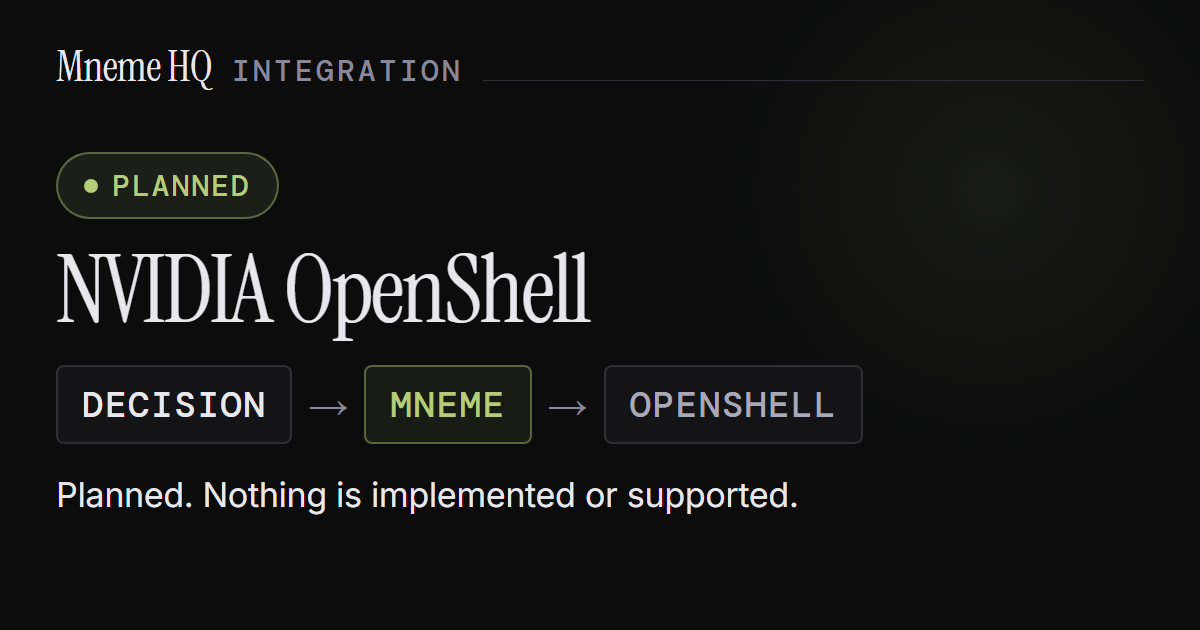
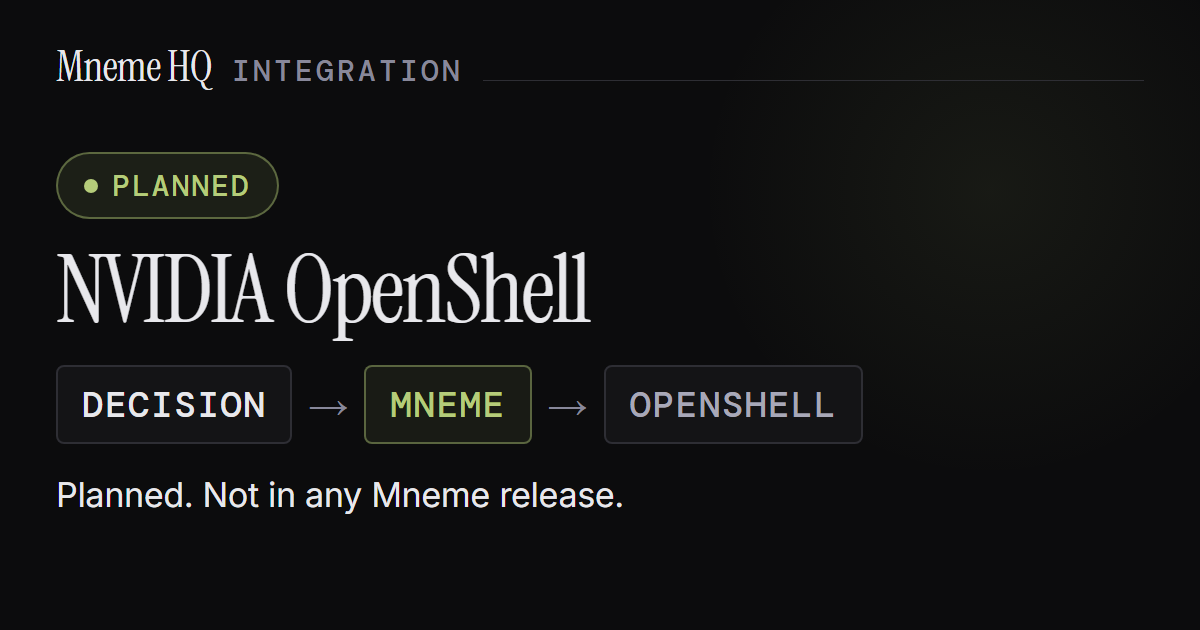
site: apply pre-merge claim audit fixes to integrations pages

Changed region(s): [[0.2158, 0.754, 0.6783, 0.8143]]

diff --git a/site/integrations/nvidia-openshell/index.html b/site/integrations/nvidia-openshell/index.html
@@ -8,7 +8,7 @@
   <link rel="preload" href="/assets/fonts/Inter-400.woff2" as="font" type="font/woff2" crossorigin>
   <link rel="stylesheet" href="/assets/css/fonts.css">
   <link rel="stylesheet" href="/assets/css/base.css?v=20260921">
-  <meta name="description" content="NVIDIA OpenShell controls what an AI agent can access. A Mneme integration with OpenShell is planned: nothing is implemented or supported yet." />
+  <meta name="description" content="NVIDIA OpenShell controls what an AI agent can access. A Mneme integration with OpenShell is planned: no release includes it and none is supported." />
   <meta name="robots" content="index, follow" />
   <meta name="theme-color" content="#0c0c0d" />
   <link rel="canonical" href="https://mnemehq.com/integrations/nvidia-openshell/" />
@@ -20,12 +20,12 @@
   <meta property="og:image" content="https://mnemehq.com/integrations/nvidia-openshell/og-v2.png" />
 <meta property="og:image:width" content="1200" />
 <meta property="og:image:height" content="630" />
-<meta property="og:image:alt" content="Integration: Mneme HQ + NVIDIA OpenShell. Planned integration. Nothing is implemented or supported." />
+<meta property="og:image:alt" content="Integration: Mneme HQ + NVIDIA OpenShell. Planned integration, not in any release." />
   <meta name="twitter:card" content="summary_large_image" />
   <meta name="twitter:title" content="Mneme HQ + NVIDIA OpenShell: Planned Integration Status" />
   <meta name="twitter:description" content="A Mneme integration with NVIDIA OpenShell is planned, not built. What OpenShell controls, what it does not decide, and where the two could connect." />
   <meta name="twitter:image" content="https://mnemehq.com/integrations/nvidia-openshell/og-v2.png" />
-<meta name="twitter:image:alt" content="Integration: Mneme HQ + NVIDIA OpenShell. Planned integration. Nothing is implemented or supported." />
+<meta name="twitter:image:alt" content="Integration: Mneme HQ + NVIDIA OpenShell. Planned integration, not in any release." />
   <meta name="author" content="Theo Valmis" />
   <meta property="article:published_time" content="2026-10-29T00:00:00Z" />
   <meta property="article:author" content="https://mnemehq.com/founder/" />
@@ -65,7 +65,7 @@
     {
       "@type": "TechArticle",
       "headline": "Mneme HQ + NVIDIA OpenShell: Planned Integration Status",
-      "description": "NVIDIA OpenShell controls what an AI agent can access. A Mneme integration with OpenShell is planned: nothing is implemented or supported yet.",
+      "description": "NVIDIA OpenShell controls what an AI agent can access. A Mneme integration with OpenShell is planned: no release includes it and none is supported.",
       "url": "https://mnemehq.com/integrations/nvidia-openshell/",
       "datePublished": "2026-10-29",
       "dateModified": "2026-10-29",
@@ -94,7 +94,7 @@
           "name": "Is there a Mneme connector for OpenShell I can install?",
           "acceptedAnswer": {
             "@type": "Answer",
-            "text": "No. The integration is planned, and nothing is implemented. The planned scope is one OpenCode file-write tool inside an OpenShell sandbox."
+            "text": "No. The integration is planned, and no implementation has been merged or released. The planned scope is one OpenCode file-write tool inside an OpenShell sandbox."
           }
         },
         {
@@ -306,7 +306,7 @@
 </nav>
 
 <section class="hero">
-  <div class="hero-eyebrow">Planned integration &middot; nothing implemented or supported</div>
+  <div class="hero-eyebrow">Planned integration &middot; not in any release</div>
   <h1>Mneme HQ + NVIDIA OpenShell</h1>
   <p class="hero-sub">NVIDIA OpenShell runs an AI agent inside a sandbox and controls what the agent can reach: files, processes, network destinations. Mneme is an open-source tool that stores a team&rsquo;s architectural decisions in the repository and checks code changes against them, either inside a coding agent before it writes a file or in CI on a pull request. A Mneme integration with OpenShell is <strong>planned</strong>: no adapter or install step exists today.</p>
 </section>
@@ -314,16 +314,16 @@
 <section class="section narrow">
   <h2>Status: planned</h2>
   <p>Two draft pull requests in Mneme&rsquo;s open-source repository describe an optional reference setup. In it, OpenCode, an open-source terminal coding agent, runs inside an OpenShell sandbox, and Mneme checks what OpenCode&rsquo;s <code>write</code> tool is about to write to a file. <a href="https://github.com/MnemeHQ/mneme/pull/609" target="_blank" rel="noopener">The first</a> adds the setup to the roadmap. <a href="https://github.com/MnemeHQ/mneme/pull/610" target="_blank" rel="noopener">The second</a> lists the tests a future implementation would have to pass. Both contain documentation only and neither is merged.</p>
-  <div class="callout"><p><strong>Planned, not built.</strong> No release of mneme-hq, Mneme&rsquo;s Python package, includes OpenShell support, and no results are published. The planned scope covers OpenCode&rsquo;s <code>write</code> tool only. Its other tools, shell commands and OpenShell&rsquo;s own settings are outside it.</p></div>
+  <div class="callout"><p><strong>Planned, not built.</strong> No release of mneme-hq, Mneme&rsquo;s Python package, includes OpenShell support, no implementation has been merged, and this page cites no test results. The planned scope covers OpenCode&rsquo;s <code>write</code> tool only. Its other tools, shell commands and OpenShell&rsquo;s own settings are outside it.</p></div>
 </section>
 
 <section class="section narrow">
   <h2>What OpenShell controls</h2>
-  <p>On October 21, 2026, NVIDIA <a href="https://nvidianews.nvidia.com/news/openshell-reference-architecture" target="_blank" rel="noopener">announced the OpenShell Reference Architecture</a>. It pairs the open-source OpenShell runtime with NVIDIA hardware, including optional <a href="/integrations/nvidia-sentry/">NVIDIA Sentry</a>. The runtime does not need that hardware. NVIDIA&rsquo;s <a href="https://developer.nvidia.com/blog/how-nvidia-openshell-reference-architecture-secures-and-governs-ai-agent-workloads-at-scale/" target="_blank" rel="noopener">technical walkthrough</a> describes four parts:</p>
+  <p>On October 21, 2026, NVIDIA <a href="https://nvidianews.nvidia.com/news/openshell-reference-architecture" target="_blank" rel="noopener">announced the OpenShell Reference Architecture</a>. It pairs the open-source OpenShell runtime with NVIDIA hardware, including optional <a href="/integrations/nvidia-sentry/">NVIDIA Sentry</a> (not Sentry.io, the error-monitoring service). The runtime does not need that hardware. NVIDIA&rsquo;s <a href="https://developer.nvidia.com/blog/how-nvidia-openshell-reference-architecture-secures-and-governs-ai-agent-workloads-at-scale/" target="_blank" rel="noopener">technical walkthrough</a> describes four parts:</p>
   <ul>
     <li><strong>Gateway:</strong> the control plane. It creates and removes sandboxes and holds their policies.</li>
     <li><strong>Sandbox:</strong> isolates the agent and restricts which files and processes it can use.</li>
-    <li><strong>Supervisor:</strong> runs outside the sandbox, checks outbound requests against policy and hands out credentials.</li>
+    <li><strong>Supervisor:</strong> runs outside the sandbox, checks outbound requests against policy and mediates access to credentials.</li>
     <li><strong>Policy prover:</strong> checks that a policy grants nothing beyond a boundary policy, an upper limit the organization writes.</li>
   </ul>
   <p>A <a href="https://docs.nvidia.com/openshell/latest/how-it-works/policies/overview" target="_blank" rel="noopener">sandbox policy</a> is a YAML file. In the v0.1.5 documentation, the default version on October 22, 2026, it sets readable and writable paths, the user that sandbox processes run as, which destinations each program may reach, and middleware for allowed traffic. The file and process settings are fixed when the sandbox starts; the network settings can change while it runs. Outbound traffic is denied unless a rule allows it.</p>
@@ -354,7 +354,7 @@
     <thead><tr><th>Point</th><th>What it sees</th><th>Mneme status</th></tr></thead>
     <tbody>
       <tr><td>The agent&rsquo;s own file-write tool</td><td>The exact content about to be written. This is where the planned OpenCode <code>write</code> check sits.</td><td><strong>Planned</strong></td></tr>
-      <tr><td><a href="https://docs.nvidia.com/openshell/latest/extensibility/gateway-interceptors" target="_blank" rel="noopener">Gateway interceptors</a></td><td>Changes to OpenShell itself, such as creating a sandbox or updating its configuration, and only those on an explicit allowlist. Before a change is saved, a <code>validate</code> call can allow or deny it and a <code>modify_operation</code> call can rewrite it. A <code>post_commit</code> call only observes. Interceptors never see the agent&rsquo;s file writes.</td><td><strong>Research</strong>: no adapter</td></tr>
+      <tr><td><a href="https://docs.nvidia.com/openshell/latest/extensibility/gateway-interceptors" target="_blank" rel="noopener">Gateway interceptors</a></td><td>Changes to OpenShell itself, such as creating a sandbox or updating its configuration, and only those on an explicit allowlist. Before a change is saved, a <code>validate</code> call can allow or deny it and a <code>modify_operation</code> call can rewrite it. A <code>post_commit</code> call only observes. The documentation describes only these gateway operations, not the agent&rsquo;s file writes.</td><td><strong>Research</strong>: no adapter</td></tr>
       <tr><td>Supervisor middleware</td><td>HTTP and WebSocket traffic that the network policy already allowed. It can inspect, change or deny it.</td><td><strong>Research</strong>: no adapter</td></tr>
       <tr><td><a href="https://docs.nvidia.com/openshell/latest/observability/logging" target="_blank" rel="noopener">Security event logs</a></td><td>Sandbox events in the Open Cybersecurity Schema Framework (OCSF) v1.8.0 format, exportable as JSON to a security monitoring system.</td><td><strong>Research</strong>: no mapping to Mneme evidence</td></tr>
       <tr><td>CI on the pull request</td><td>The final diff, outside the sandbox.</td><td><strong>Shipped</strong>, independent of OpenShell</td></tr>
@@ -384,7 +384,7 @@
   <h2>FAQ</h2>
   <details style="border-top:1px solid var(--border); padding:1.05rem 0;">
     <summary style="cursor:pointer; font-size:0.92rem; color:var(--text); font-weight:500;">Is there a Mneme connector for OpenShell I can install?</summary>
-    <div style="padding-top:0.85rem; font-size:0.85rem; color:var(--muted); line-height:1.8;">No. The integration is planned, and nothing is implemented. The planned scope is one OpenCode file-write tool inside an OpenShell sandbox.</div>
+    <div style="padding-top:0.85rem; font-size:0.85rem; color:var(--muted); line-height:1.8;">No. The integration is planned, and no implementation has been merged or released. The planned scope is one OpenCode file-write tool inside an OpenShell sandbox.</div>
   </details>
   <details style="border-top:1px solid var(--border); padding:1.05rem 0;">
     <summary style="cursor:pointer; font-size:0.92rem; color:var(--text); font-weight:500;">Does Mneme replace OpenShell policies?</summary>

diff --git a/site/integrations/index.html b/site/integrations/index.html
@@ -266,7 +266,8 @@
     <p>Statuses describe what exists in mneme-hq 0.10.0, the current release of Mneme&rsquo;s Python package. Only the status line on each entry says what Mneme supports; some tools have a page without being supported. Text after the status names the path or limit that applies, such as &ldquo;through CI&rdquo;.</p>
   </div>
   <dl class="status-key">
-    <div><dt>Shipped</dt><dd>Released in mneme-hq: an adapter, hook, command or reference workflow with tests in the open-source repository. For tools with no adapter of their own, the qualifier names the shipped path that reaches them.</dd></div>
+    <div><dt>Shipped</dt><dd>Released in mneme-hq: an adapter, hook, command or reference workflow with tests in the open-source repository.</dd></div>
+    <div><dt>No adapter</dt><dd>Mneme has nothing for this tool itself. The label names the shipped path that still reaches its changes, such as CI.</dd></div>
     <div><dt>Validated</dt><dd>Unmodified Mneme was tested working through the tool, with published evidence. No dedicated adapter.</dd></div>
     <div><dt>Experimental</dt><dd>Code exists and some boundaries are tested, but coverage or validation is incomplete. Not for production use.</dd></div>
     <div><dt>Planned</dt><dd>Design or specification work only. Nothing is implemented or supported.</dd></div>
@@ -305,7 +306,7 @@
 
   <section class="layer" id="coding-agents">
     <div class="layer-head"><span class="layer-num">02</span><h2>Coding agents and harnesses</h2></div>
-    <p class="layer-desc">A harness is the program that runs a coding agent&rsquo;s loop and tools. Where an agent offers a hook, a point where outside code can inspect an action before it runs, Mneme checks a proposed file write there. Writes made through shell commands reach disk first: Claude Code and Codex CLI check them when the agent ends its turn, and every other agent relies on CI.</p>
+    <p class="layer-desc">A harness is the program that runs a coding agent&rsquo;s loop and tools. Where an agent offers a hook, a point where outside code can inspect an action before it runs, Mneme checks a proposed file write there. Most writes made through shell commands reach disk first: Claude Code and Codex CLI check them when the agent ends its turn, and every other agent relies on CI.</p>
     <div class="layer-grid">
       <a class="int-card" href="/integrations/claude-code/">
         <div class="int-status">Shipped</div>
@@ -335,7 +336,7 @@
       <a class="int-card muted" href="/integrations/hermes/">
         <div class="int-status">Experimental</div>
         <h3>Hermes Agent</h3>
-        <p>Adds decisions to each turn and checks supported file changes before they run. Tested against Hermes Agent 0.19.0; shell and process writes are not checked, and there is no end-of-turn check.</p>
+        <p>Adds decisions to each turn and checks supported file changes before they run. Tested at the plugin dispatch layer against Hermes Agent 0.19.0; most shell writes and all process-tool writes are not checked, and there is no end-of-turn check.</p>
       </a>
       <a class="int-card muted" href="/integrations/opencode/">
         <div class="int-status">Experimental</div>
@@ -348,7 +349,7 @@
     <p class="layer-desc">These tools have no Mneme adapter of their own. The status names the shipped path that does reach them.</p>
     <div class="layer-grid">
       <a class="int-card" href="/integrations/vscode/">
-        <div class="int-status">Shipped &middot; through the Claude Code hook</div>
+        <div class="int-status">No adapter &middot; Claude Code hook (shipped)</div>
         <h3>VS Code</h3>
         <p>Claude Code sessions inside VS Code use the same PreToolUse hook. No extension needed.</p>
       </a>
@@ -358,17 +359,17 @@
         <p><code>mneme cursor generate</code> writes a Cursor Rules file from your recorded decisions, resolving decisions that conflict. Cursor passes them to its model as context; the rules file blocks nothing.</p>
       </a>
       <a class="int-card" href="/integrations/copilot/">
-        <div class="int-status">Shipped &middot; through CI</div>
+        <div class="int-status">No adapter &middot; CI check (shipped)</div>
         <h3>GitHub Copilot</h3>
         <p>Copilot has no hook Mneme can use. The CI check covers its changes.</p>
       </a>
       <a class="int-card" href="/integrations/jetbrains/">
-        <div class="int-status">Shipped &middot; through CI</div>
+        <div class="int-status">No adapter &middot; CI check (shipped)</div>
         <h3>JetBrains IDEs</h3>
         <p>The decision corpus and the CI check apply regardless of which IDE produced the change.</p>
       </a>
       <a class="int-card" href="/integrations/warp/">
-        <div class="int-status">Shipped &middot; through the agent or CI</div>
+        <div class="int-status">No adapter &middot; agent hook or CI (shipped)</div>
         <h3>Warp</h3>
         <p>No Warp adapter. Checks apply when the agent Warp runs has a Mneme hook, or when CI checks the diff.</p>
       </a>
@@ -400,9 +401,9 @@
         <p>Mneme as middleware around Deep Agents&rsquo; filesystem tools. Roadmap only until its own pinned validation passes.</p>
       </div>
       <div class="int-card muted">
-        <div class="int-status">Planned</div>
+        <div class="int-status">Research</div>
         <h3>n8n</h3>
-        <p>Checks on AI-driven steps in n8n workflow automation. On the roadmap; no design is published yet.</p>
+        <p>Whether Mneme checks could apply to AI-driven steps in n8n workflow automation. No design exists.</p>
       </div>
       <div class="int-card muted">
         <div class="int-status">Research</div>
@@ -417,15 +418,15 @@
     <p class="layer-desc">A software factory combines a work queue, an orchestrator, coding agents, CI and human review. Mneme does not integrate with a factory as a unit, and it is not a factory platform. It supplies the decisions the factory&rsquo;s agents must respect, through the shipped checks above. For the argument, read <a class="inline" href="/insights/software-factory-governance-layer/">the software factory&rsquo;s missing decision layer</a>.</p>
     <div class="layer-grid">
       <div class="int-card muted">
-        <div class="int-status">Planned</div>
+        <div class="int-status">Research &middot; proposed workflow</div>
         <h3>One-issue software factory</h3>
-        <p>A proposed starting workflow: one repository, one supported coding agent, two reviewed decisions, a CI check and a human-approved merge. The runnable guide waits for experiment evidence.</p>
+        <p>A proposed starting workflow, not yet tested: one repository, one supported coding agent, two reviewed decisions, a CI check and a human-approved merge.</p>
       </div>
-      <a class="int-card" href="/use-cases/multi-agent-workflow-governance/">
-        <div class="int-status">Shipped &middot; per supported agent</div>
+      <div class="int-card">
+        <div class="int-status">Pattern &middot; coverage per agent</div>
         <h3>Multi-agent workflows</h3>
-        <p>When several agents work on one repository, each supported agent reads the same decision corpus. Coverage is per agent, as listed above.</p>
-      </a>
+        <p>When several agents work on one repository, each agent with a Mneme hook checks against the same recorded decisions, and CI covers the rest. Coverage is whatever each agent has, as listed above.</p>
+      </div>
     </div>
   </section>
 
@@ -458,7 +459,7 @@
       <a class="int-card muted" href="/integrations/nvidia-openshell/">
         <div class="int-status">Planned</div>
         <h3>NVIDIA OpenShell</h3>
-        <p>An optional reference setup for one OpenCode file-write tool inside an OpenShell sandbox is in draft design documents. Nothing is implemented or supported.</p>
+        <p>An optional reference setup for one OpenCode file-write tool inside an OpenShell sandbox is proposed in draft design documents. No release includes it.</p>
       </a>
       <a class="int-card muted" href="/integrations/open-policy-agent/">
         <div class="int-status">Research</div>

diff --git a/site/docs/how-enforcement-works/index.html b/site/docs/how-enforcement-works/index.html
@@ -273,7 +273,7 @@
       <div style="overflow-x:auto;-webkit-overflow-scrolling:touch;">
       <svg viewBox="0 0 820 610" xmlns="http://www.w3.org/2000/svg" role="img" aria-labelledby="dly-t dly-d" style="width:100%;min-width:640px;height:auto;display:block;max-width:820px;margin:0 auto;" font-family="Inter, ui-sans-serif, system-ui, sans-serif">
         <title id="dly-t">Where the Mneme decision layer sits</title>
-        <desc id="dly-d">Engineering intent (ADRs, standards, review policies) flows into the Mneme decision layer, which holds decision identity, applicability, precedence and lifecycle and produces agent context and deterministic rules. Three shipped surfaces receive the same decisions: AI coding agents through pre-write hooks (Claude Code, Claude Agent SDK, Codex CLI, Kiro, Google Antigravity), with decision context injected where the harness supports it (Claude Code, Claude Agent SDK), editors and the CLI (Cursor rules export, mneme check, pre-commit), and GitHub CI through the Actions gate. Each returns an inspectable result: a guide, warn, or block verdict traced to its source decision. Deployment platforms and policy engines such as OPA, and a broader evidence return path, are shown dashed as planned, not shipped.</desc>
+        <desc id="dly-d">Engineering intent (ADRs, standards, review policies) flows into the Mneme decision layer, which holds decision identity, applicability, precedence and lifecycle and produces agent context and deterministic rules. Three shipped surfaces receive the same decisions: AI coding agents through pre-write hooks (Claude Code, Claude Agent SDK, Codex CLI, Kiro, Google Antigravity), with decision context injected where the harness supports it (Claude Code, Claude Agent SDK), editors and the CLI (Cursor rules export, mneme check, pre-commit), and GitHub CI through the Actions gate. Each returns an inspectable result: a guide, warn, or block verdict traced to its source decision. Deployment platforms and policy engines such as OPA, and a broader evidence return path, are shown dashed as not shipped: planned or under research.</desc>
         <defs>
           <marker id="dly-a" viewBox="0 0 10 10" refX="8" refY="5" markerWidth="7" markerHeight="7" orient="auto-start-reverse"><path d="M0 0L10 5L0 10z" fill="#b5cc7a"/></marker>
           <marker id="dly-ad" viewBox="0 0 10 10" refX="8" refY="5" markerWidth="7" markerHeight="7" orient="auto-start-reverse"><path d="M0 0L10 5L0 10z" fill="#5a5a66"/></marker>
@@ -320,8 +320,8 @@
 
         <!-- planned -->
         <rect x="610" y="300" width="176" height="104" rx="10" fill="none" stroke="#5a5a66" stroke-dasharray="5 4"/>
-        <text x="698" y="326" text-anchor="middle" fill="#9a9aa6" font-size="13" font-weight="600">Planned</text>
-        <text x="698" y="346" text-anchor="middle" fill="#6a6a76" font-size="11">not shipped</text>
+        <text x="698" y="326" text-anchor="middle" fill="#9a9aa6" font-size="13" font-weight="600">Not shipped</text>
+        <text x="698" y="346" text-anchor="middle" fill="#6a6a76" font-size="11">planned or research</text>
         <text x="698" y="368" text-anchor="middle" fill="#6a6a76" font-size="10.5">deployment platforms</text>
         <text x="698" y="384" text-anchor="middle" fill="#6a6a76" font-size="10.5">policy engines (e.g. OPA)</text>
 
@@ -342,7 +342,7 @@
         <text x="410" y="587" text-anchor="middle" fill="#88889a" font-size="12">It supplies the approved decisions they check changes against.</text>
       </svg>
       </div>
-      <figcaption style="margin-top:0.75rem;font-size:0.82rem;color:#a8a8b8;line-height:1.6;">Solid surfaces ship today. Dashed surfaces are planned and not yet available. Full support levels are listed on the <a href="/integrations/" style="color:#8be0c8;">integrations matrix</a>.</figcaption>
+      <figcaption style="margin-top:0.75rem;font-size:0.82rem;color:#a8a8b8;line-height:1.6;">Solid surfaces ship today. Dashed surfaces are not shipped: they are planned or under research. Full support levels are listed on the <a href="/integrations/" style="color:#8be0c8;">integrations matrix</a>.</figcaption>
     </figure>
     <p>The result is one decision corpus, checked by every supported surface, with each verdict linked back to its source. The same engineering intent operates across your tools instead of living in each one separately.</p>
   </div>

diff --git a/site/integrations/nvidia-sentry/index.html b/site/integrations/nvidia-sentry/index.html
@@ -300,7 +300,7 @@
 <section class="hero">
   <div class="hero-eyebrow">Research &middot; no adapter &middot; not Sentry.io</div>
   <h1>Mneme HQ + NVIDIA Sentry</h1>
-  <p class="hero-sub">NVIDIA Sentry is NVIDIA&rsquo;s security layer for AI agents. It runs on dedicated network hardware, separate from the machine the agent runs on, and monitors and controls the agent&rsquo;s traffic. It is not Sentry.io, the error-monitoring service. Mneme is an open-source tool that stores a team&rsquo;s architectural decisions in the repository and checks code changes against them, either inside a coding agent before it writes a file or in CI on a pull request. Whether the two can connect is a <strong>research</strong> question. No adapter exists.</p>
+  <p class="hero-sub">NVIDIA Sentry is NVIDIA&rsquo;s security layer for AI agents. It runs on a network processor in the same server, in a hardware-isolated domain separate from the software the agent runs on, and monitors and controls the agent&rsquo;s traffic. It is not Sentry.io, the error-monitoring service. Mneme is an open-source tool that stores a team&rsquo;s architectural decisions in the repository and checks code changes against them, either inside a coding agent before it writes a file or in CI on a pull request. Whether the two can connect is a <strong>research</strong> question. No adapter exists.</p>
 </section>
 
 <section class="section narrow">
@@ -312,8 +312,8 @@
   <h2>What NVIDIA Sentry is</h2>
   <p>NVIDIA describes Sentry in a <a href="https://developer.nvidia.com/blog/inside-nvidia-sentry-secure-ai-agents-at-runtime/" target="_blank" rel="noopener">technical blog post</a> and on its <a href="https://www.nvidia.com/en-us/networking/products/software/sentry/" target="_blank" rel="noopener">product page</a>. It runs on BlueField-4, a data processing unit (DPU): a network card with its own processors. NVIDIA describes it as isolated from, and independent of, the host where the agent runs. It is built from NVIDIA&rsquo;s DOCA (Data Center Infrastructure-on-a-Chip Architecture) software libraries:</p>
   <ul>
-    <li><strong>DOCA Flow:</strong> a per-agent firewall that filters connections by address and port.</li>
-    <li><strong>DOCA Tower:</strong> a proxy built on Envoy, an open-source network proxy, that inspects allowed traffic at the application level. It takes its allow-or-deny decisions from policies run by <a href="/integrations/open-policy-agent/">Open Policy Agent (OPA)</a>, an open-source policy engine.</li>
+    <li><strong>DOCA Flow:</strong> a per-agent network firewall that blocks connections to unauthorized destinations.</li>
+    <li><strong>DOCA Tower:</strong> a proxy built on Envoy, an open-source network proxy, that inspects allowed traffic at the application level. It uses <a href="/integrations/open-policy-agent/">Open Policy Agent (OPA)</a>, an open-source policy engine, to extend network access policies.</li>
     <li><strong>DOCA Argus:</strong> inspects the host&rsquo;s memory from outside it, without software on the host.</li>
   </ul>
   <p>The blog post says Sentry keeps attested telemetry and tamper-evident records on the BlueField-4: activity logs that can be shown not to have been altered. Sentry is an optional part of NVIDIA&rsquo;s <a href="/integrations/nvidia-openshell/">OpenShell Reference Architecture</a>, a design for running agents in sandboxes; the OpenShell runtime works without it.</p>

diff --git a/site/integrations/open-policy-agent/index.html b/site/integrations/open-policy-agent/index.html
@@ -348,7 +348,7 @@
   <ul>
     <li><strong>No decision-to-Rego compiler.</strong> Mneme does not generate, publish or activate Rego.</li>
     <li><strong>No code-content checks in OPA.</strong> Rules about imports, file structure or code patterns stay with Mneme&rsquo;s agent hooks and CI.</li>
-    <li><strong>No NVIDIA Sentry support.</strong> <a href="/integrations/nvidia-sentry/">NVIDIA Sentry</a>, NVIDIA&rsquo;s hardware security layer for AI agents, uses OPA internally, but an OPA result says nothing about Sentry.</li>
+    <li><strong>No NVIDIA Sentry support.</strong> <a href="/integrations/nvidia-sentry/">NVIDIA Sentry</a> (not Sentry.io, the error-monitoring service), NVIDIA&rsquo;s hardware security layer for AI agents, uses OPA internally, but an OPA result says nothing about Sentry.</li>
   </ul>
 </section>
 
